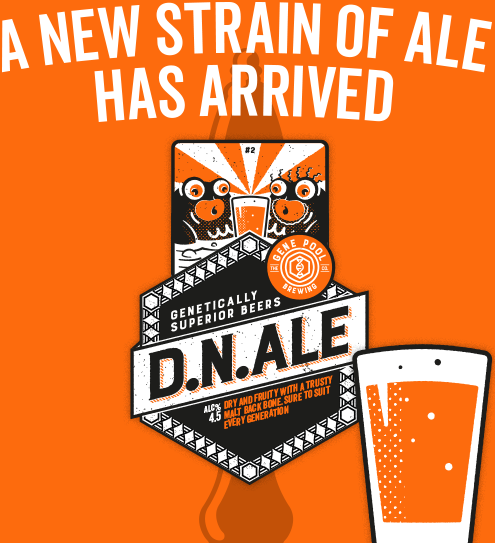
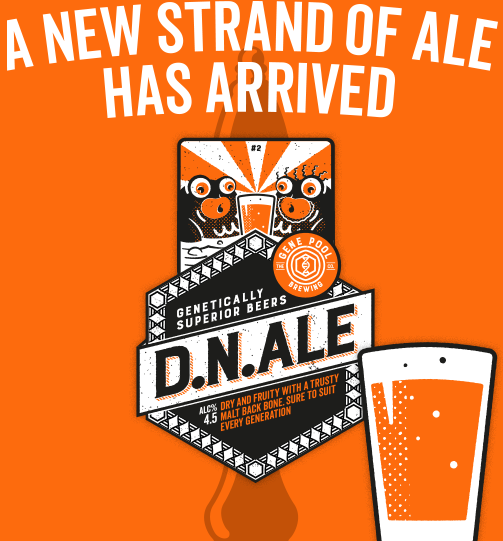
finished D.N.Ale launch email

diff --git a/beer-launch/src/pages/index.html b/beer-launch/src/pages/index.html
@@ -5,22 +5,39 @@ subject: D.N.Ale Available in Select Pubs Soon
 <wrapper class="pre-header header">
 	<container>
 		<row>
-			<columns>
-				<p class="small-text-center text-right"><a href="*|ARCHIVE|*">View this email in your browser</a></p>
-				<spacer size="30"></spacer>
-			</columns>
+			<columns><p class="small-text-center text-right"><a href="*|ARCHIVE|*">View this email in your browser</a></p></columns>
 		</row>
 	</container>
+
+	<row>
+		<columns class="logo-side" small="4">
+			<row class="black">
+				<columns></columns>
+			</row>
+			<row class="orange">
+				<columns></columns>
+			</row>
+		</columns>
+		<columns class="logo-container" small="4">
+			<center class="logo">
+				<a href="http://www.genepoolbrewing.com"><img src="logo.png" alt="Gene Pool Brewing"></a>
+			</center>
+		</columns>
+		<columns class="logo-side" small="4">
+			<row class="black">
+				<columns></columns>
+			</row>
+			<row class="orange">
+				<columns></columns>
+			</row>
+		</columns>
+	</row>
 </wrapper>
 
 <wrapper class="pump-clip">
 	<container>
 		<row>
 			<columns>
-				<center class="logo">
-					<a href="http://www.genepoolbrewing.com"><img src="logo.png" alt="Gene Pool Brewing"></a>
-				</center>
-
 				<spacer size="20"></spacer>
 
 				<center>
@@ -115,7 +132,7 @@ subject: D.N.Ale Available in Select Pubs Soon
 
 		<row>
 			<columns>
-				<p class="text-center"><small>You received this email because you're signed up to get updates from us. <a href="*|UNSUB|*">Click here to unsubscribe.</a></small></p>
+				<p class="text-center"><small>You received this email because you're signed up to get updates from us.<br><a href="*|UNSUB|*">Unsubscribe to remove yourself from the Gene Pool.</a></small></p>
 			</columns>
 		</row>
 	</container>

diff --git a/beer-launch/src/assets/scss/template/_template.scss b/beer-launch/src/assets/scss/template/_template.scss
@@ -46,21 +46,43 @@ html,
 }
 
 .header .wrapper-inner {
-  padding: 20px;
+  padding-top: 20px;
 }
 
 .header .container {
   background: transparent;
 }
 
+th.columns.logo-container {
+	display: table-cell !important;
+	width: 98px !important;
+	padding-left: 0 !important;
+	padding-right: 0 !important;
+}
+
+table.body .columns.logo-side {
+	display: table-cell !important;
+	width: auto !important;
+	padding: 0 !important;
+	background-color: #FD6B0D;
+
+	.row {
+		height: 47px;
+	}
+
+	.black {
+		background-color: #000000;
+	}
+}
+
+.logo {
+	min-width: 100% !important;
+}
+
 // Pump Clip
 .pump-clip,
 .pump-clip .container {
 	background: #fd6b0d;
-
-	.logo {
-		Margin-top: -50px;
-	}
 
 	.columns {
 		padding-bottom: 0;
